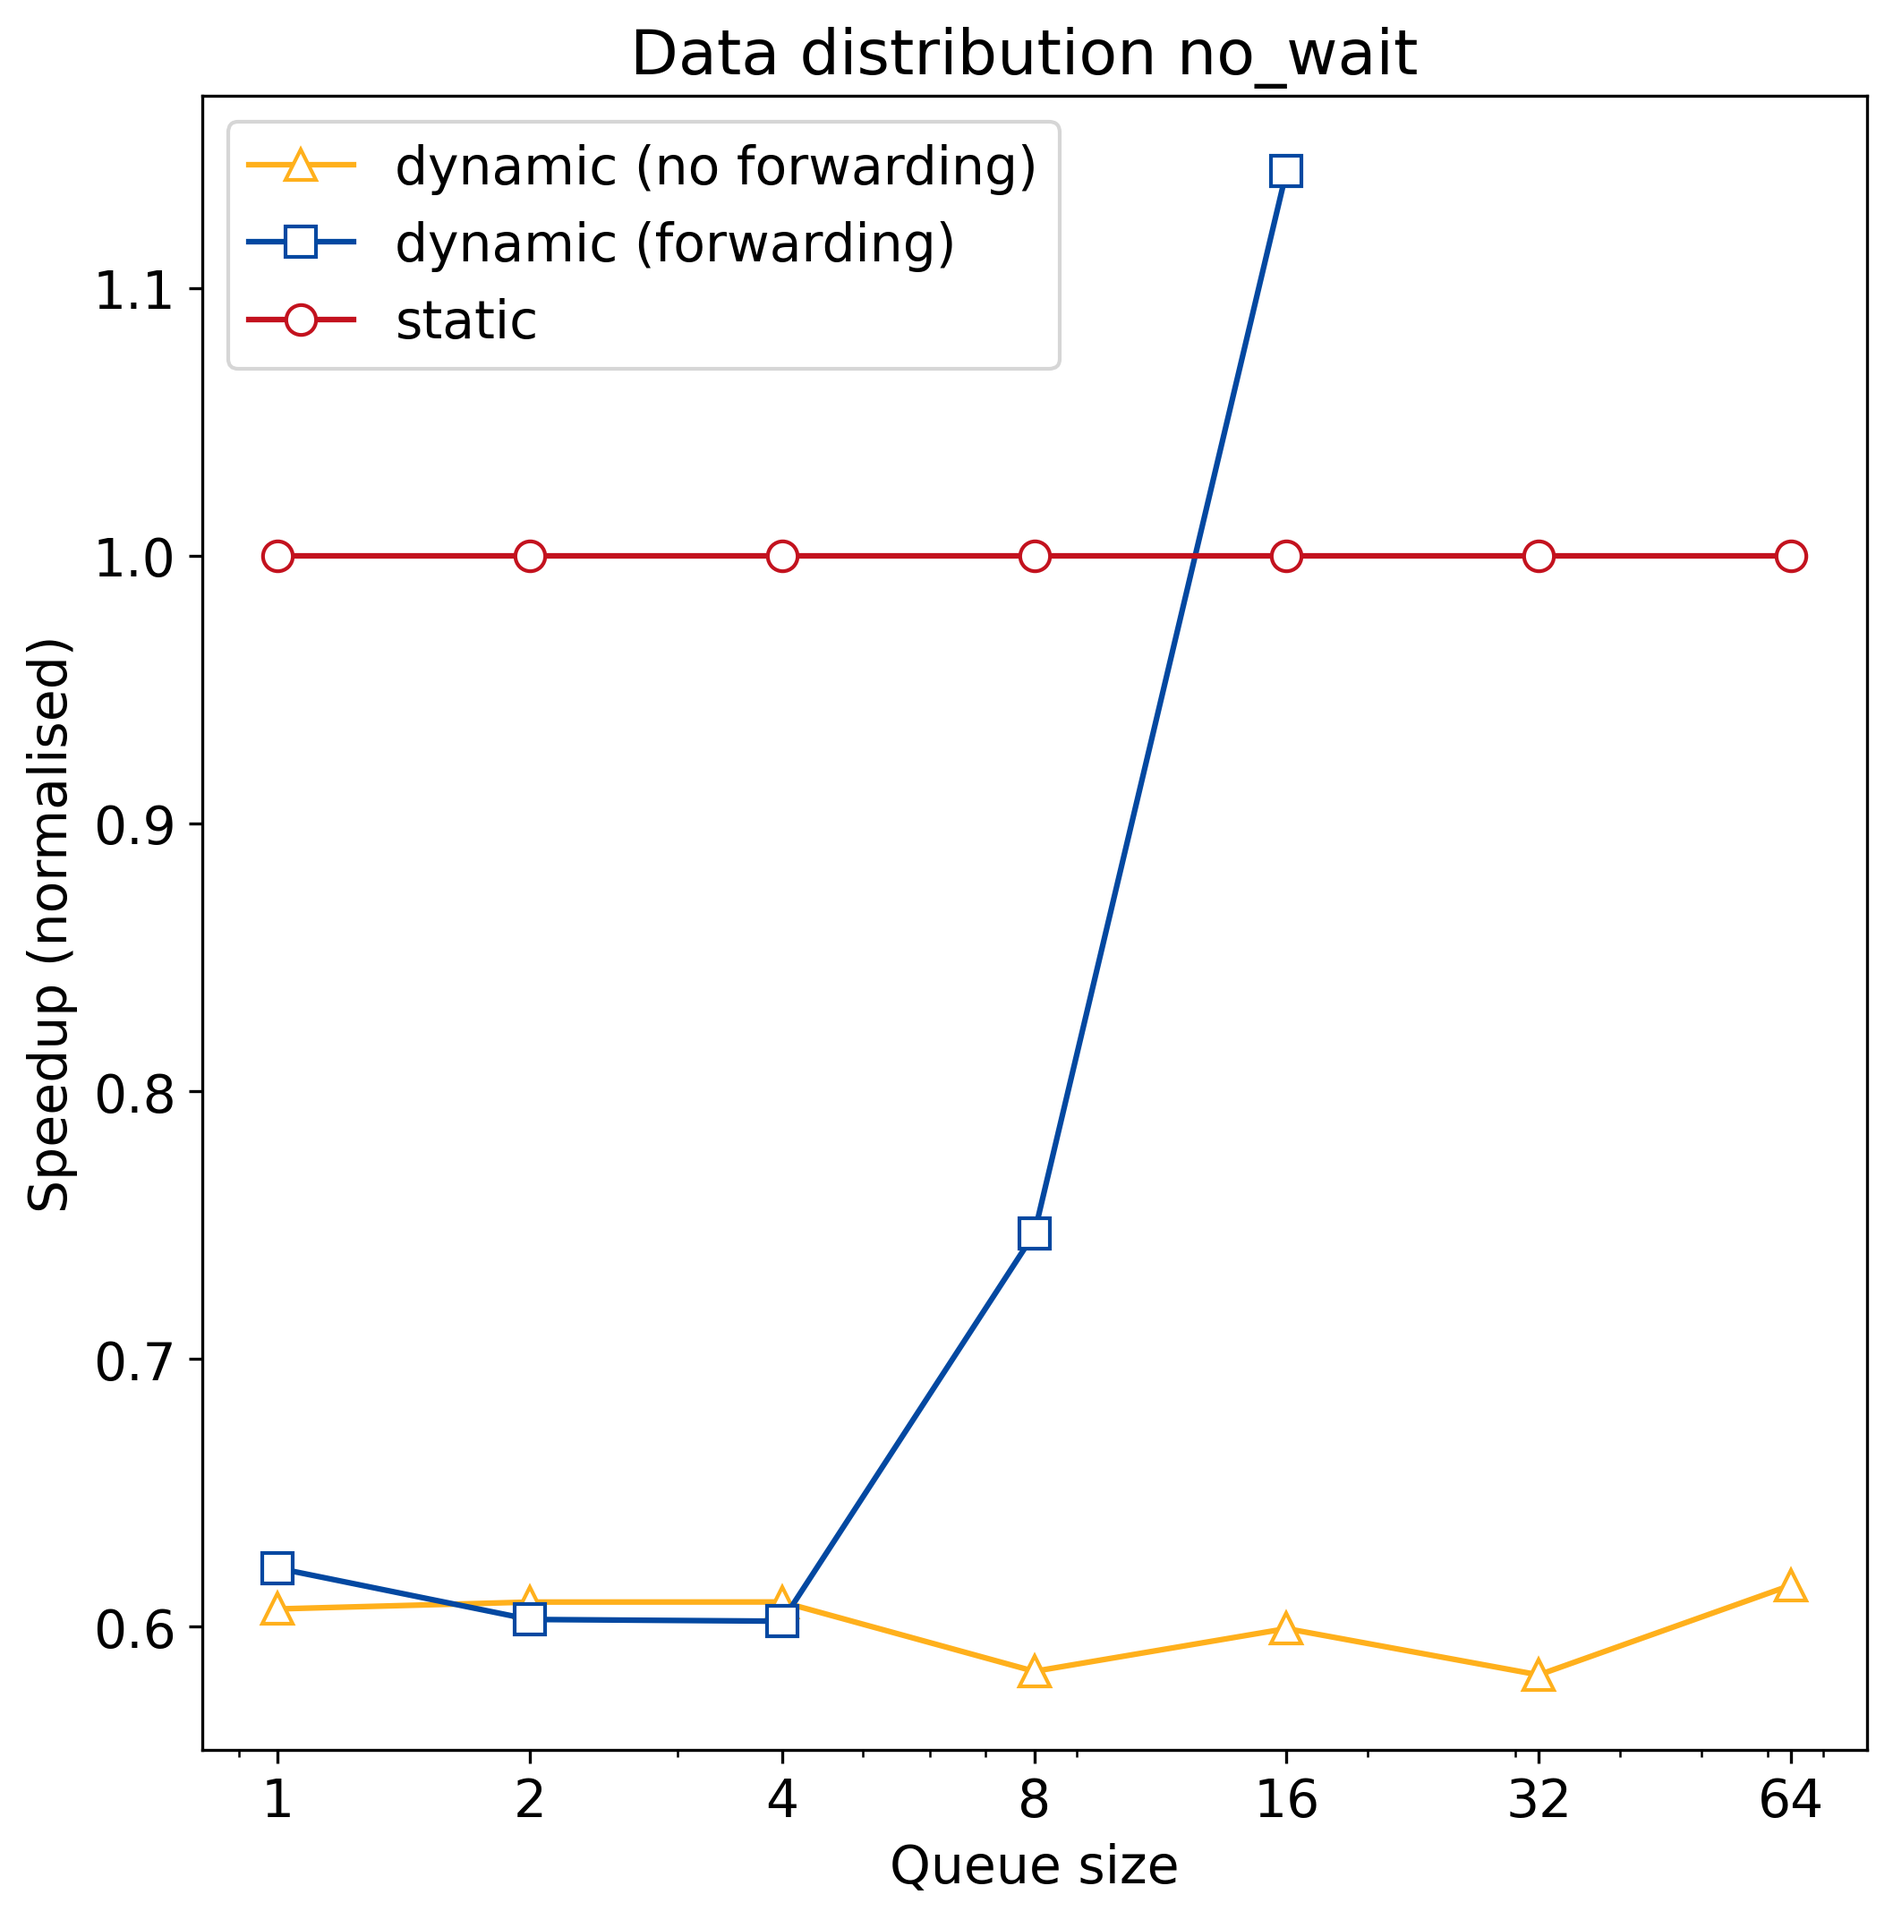
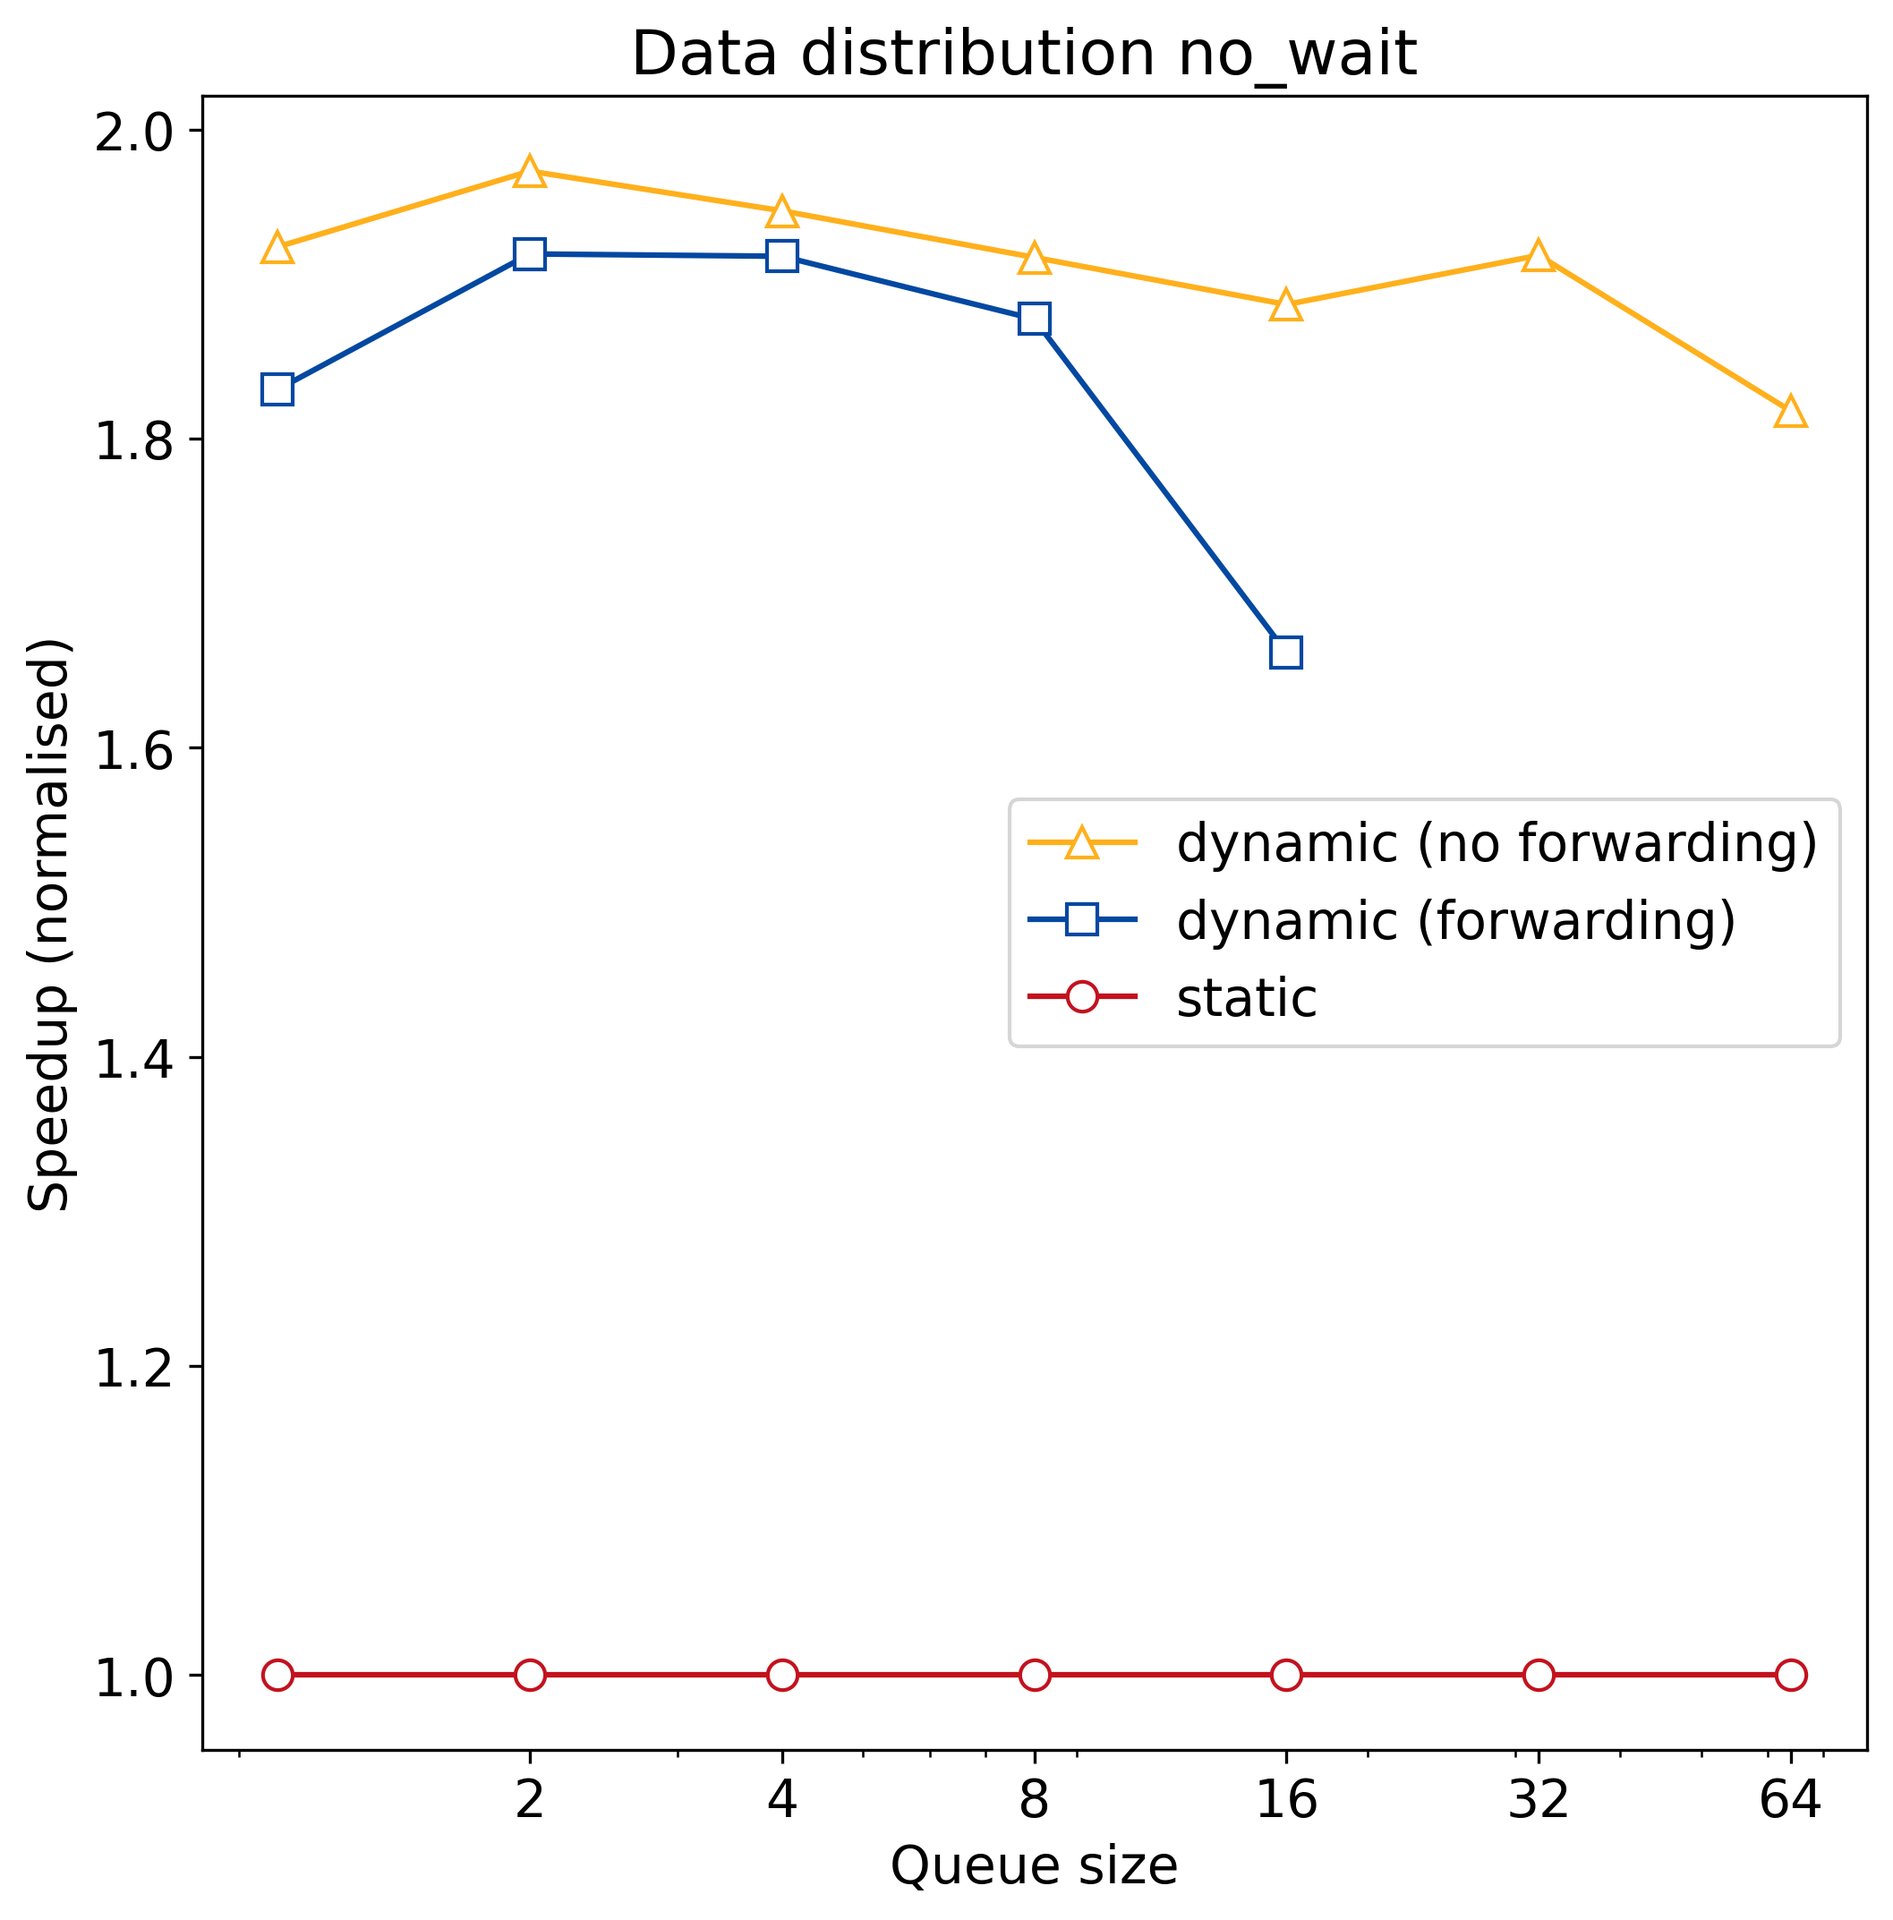
Add plots for mm.

diff --git a/vis_exp.py b/vis_exp.py
@@ -67,8 +67,8 @@ def make_plot(filename, relative=True, y_label='Speedup (normalised)', title='')
     if relative:
         static_baseline = y[0]
         y = [1 for _ in df['static']]
-        y2 = [val/static_baseline for val in y2]
-        y3 = [val/static_baseline for val in y3]
+        y2 = [static_baseline/val for val in y2]
+        y3 = [static_baseline/val for val in y3]
 
     # plot
     fig = plt.figure(fig_id, figsize=(8, 8))
